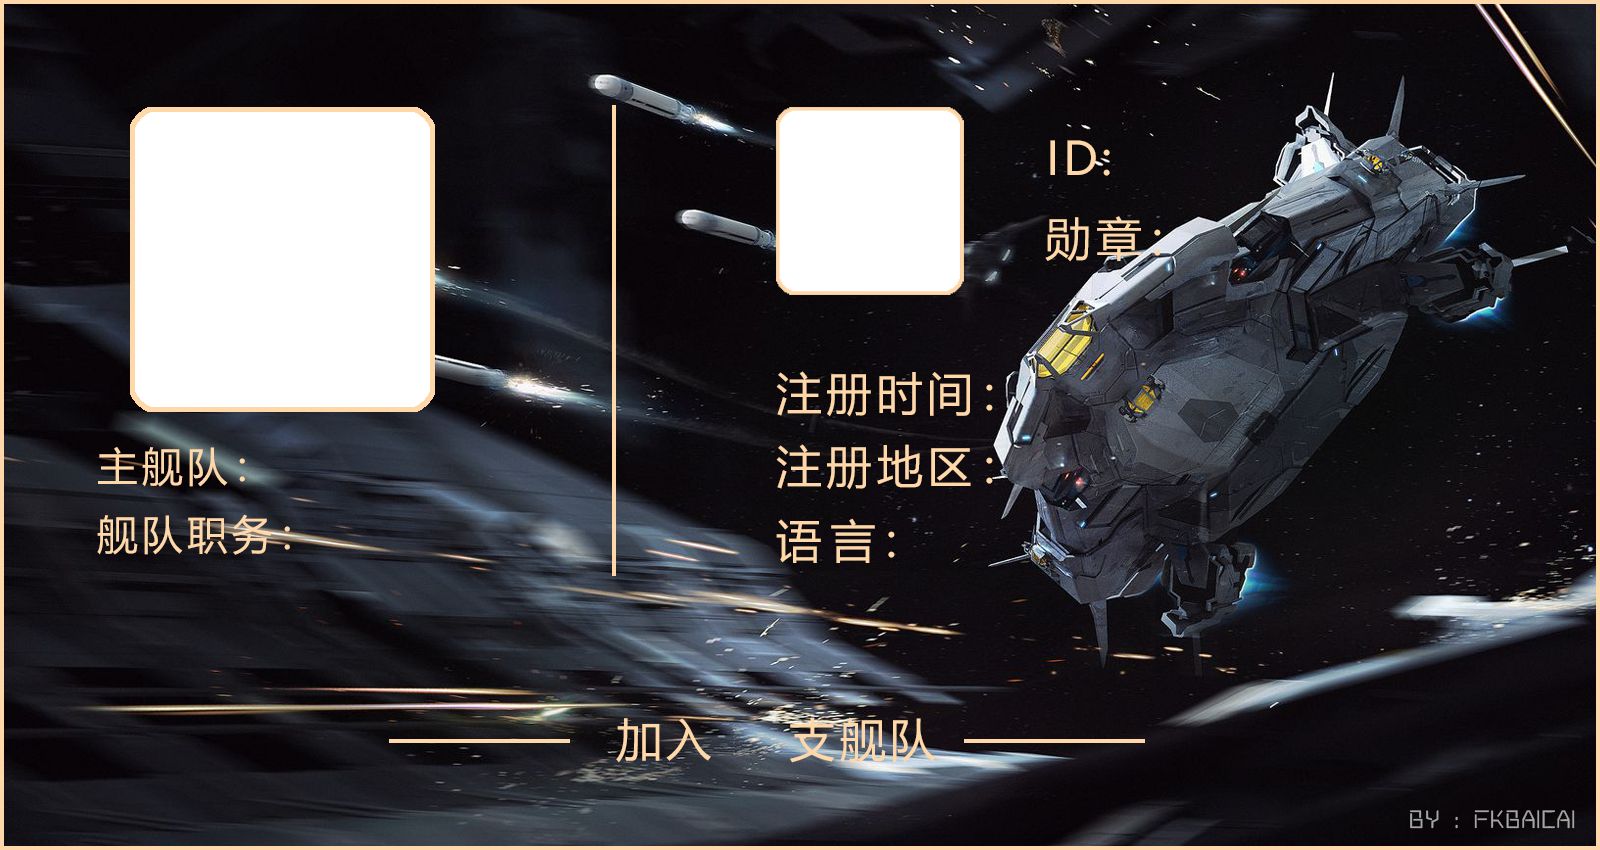
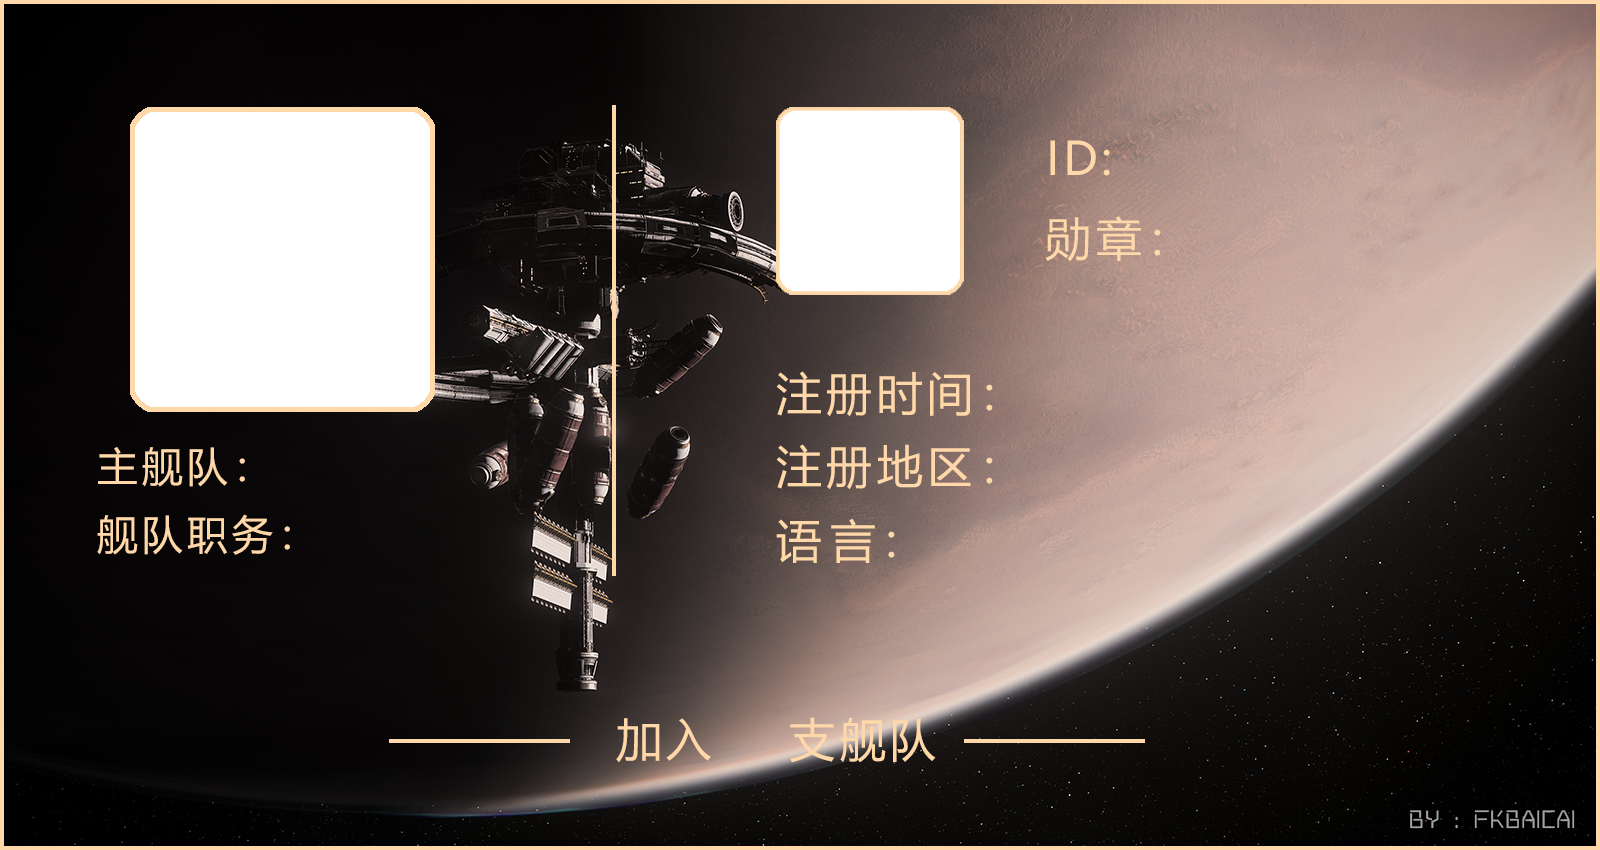
@danty 更新模板和购买地址

diff --git a/my_project/ptojectAPI.py b/my_project/ptojectAPI.py
@@ -25,7 +25,7 @@ class MakePhoto:
         self.interface = interface
         self.template_image_name = self.config[interface]["background"].replace(".png", "_template.png")
         if self.interface == "boat":
-            random_number = random.randint(1, 6)
+            random_number = random.randint(1, 10)
             if random_number < 10:
                 random_number = "0" + str(random_number)
             else:
@@ -34,7 +34,7 @@ class MakePhoto:
                 self.config[interface]["background"].replace(".png", f"_{random_number}.png"))
 
         else:
-            random_number = random.randint(1, 5)
+            random_number = random.randint(1, 10)
             if random_number < 10:
                 random_number = "0" + str(random_number)
             else:
@@ -321,19 +321,16 @@ class GetValue():
         # 添加游戏价格
         if "Buy" in res1:
             game_price = res1["Buy"]
-            first_item = list(game_price.items())[0]
-            selling_address = {"Astro Armada": '奥里森', 'Area 18': '18区', 'Lorville': "罗威尔"}
+            selling_address = {"Astro Armada": '奥里森', 'Area 18': '18区', 'Lorville': "罗威尔",'New Deal':'新巴贝奇'}
             address = ''
-            if "," in first_item[0]:
-                address_list = first_item[0].split(",")
-                for i in address_list:
-                    i = i.strip()
-                    if i in selling_address:
-                        address += selling_address[i] + ","
-                address = address[: -1]
-            else:
-                address = first_item[0]
-            price = common_method.amount_handled(first_item[1])
+            price = list(game_price.values())[0]
+            for key, value in game_price.items():
+                if "," in key:
+                    address += selling_address[key.split(",")[-1].strip()] + ","
+                else:
+                    address += selling_address[key.strip()] + ","
+            address = address[:-1]
+            price = common_method.amount_handled(price)
             game_price = '{} aUEC ({}) '.format(price, address)
 
             boat_value_dict["game_price"] = game_price

diff --git a/my_project/main.py b/my_project/main.py
@@ -161,8 +161,6 @@ def boat_real_time():
         get_all_boat_thread = threading.Thread(target=BoatPhoto().get_all_boat)
         get_all_boat_thread.start()
         logging.info("启动船只更新")
-    #
-    #
     # try:
     #     name = request.args.get('name')
     #     name = urllib.parse.unquote(name)
